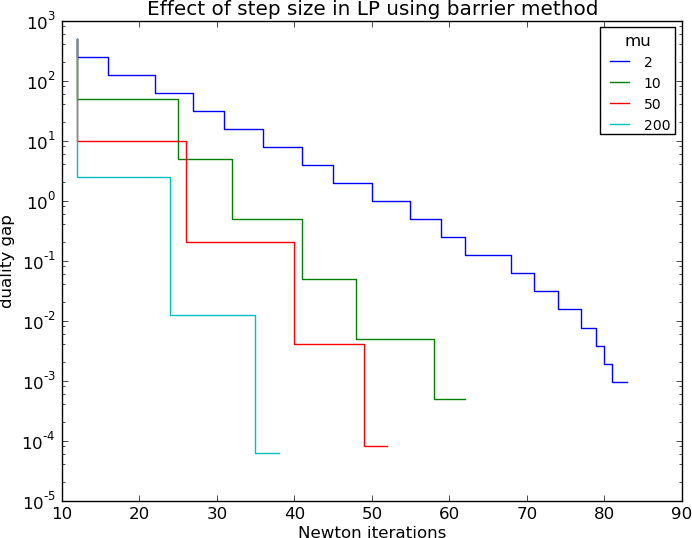
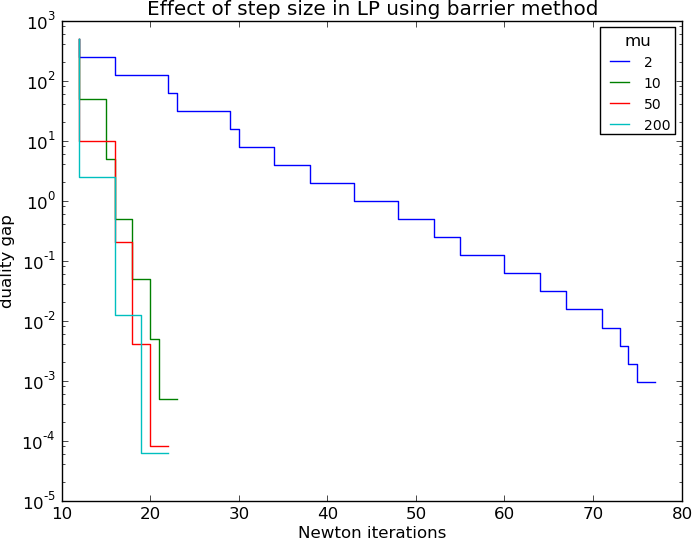
Wrote a general standard form LP solver using a phase I method, and then feeding the result, if feasible, to the strictly feasible starting point solver.
Refactored hw8.py to be run as a script, and replaced assertions with kept calculations.

diff --git a/hw8.py b/hw8.py
@@ -2,7 +2,7 @@ import numpy as np
 from numpy.random import RandomState
 import pandas as pd
 
-from .lp import run_lp_center, _plot_lp_center, _f, _grad, run_lp_strict, _plot_lp_strict
+from lp import run_lp_center, _plot_lp_center, _f, _grad, run_lp_strict, _plot_lp_strict, lp_solve
 
 import cvxopt
 import cvxpy
@@ -10,34 +10,37 @@ import cvxpy
 image_dir = 'img/'
 
 ## generate test data
+def gen_data(m, n, seed=0):
+    prng = RandomState(seed)
+    A = prng.randn(m,n)
+
+    ## check that A is full rank
+    assert np.linalg.matrix_rank(A) == m
+    ## src: http://stackoverflow.com/a/3356123
+    u, s, v = np.linalg.svd(A)
+    assert np.sum(s > 1e-10) == m
+
+    ## subtracting the mean reduces rank by 1 ...
+    # mu=np.mean(A,axis=0)
+    # u,s,v=np.linalg.svd(A-mu)
+    # np.sum(s > 1e-10) == 99
+    #
+    # from sklearn.decomposition import PCA
+    # sum(PCA().fit(A).explained_variance_ > 1e-10) == 99
+    #
+    # np.linalg.matrix_rank(A-mu) == 99
+
+    x0 = np.abs(prng.randn(n,1)) # make positive (ie. feasible)
+    b = np.dot(A,x0)
+    c = prng.rand(n,1)
+    return A, b, c, x0
 m,n = (100,500)
-prng = RandomState(1)
-A = prng.randn(m,n)
-
-## check that A is full rank
-assert np.linalg.matrix_rank(A) == m
-## src: http://stackoverflow.com/a/3356123
-u, s, v = np.linalg.svd(A)
-assert np.sum(s > 1e-10) == m
-
-## subtracting the mean reduces rank by 1 ...
-# mu=np.mean(A,axis=0)
-# u,s,v=np.linalg.svd(A-mu)
-# np.sum(s > 1e-10) == 99
-#
-# from sklearn.decomposition import PCA
-# sum(PCA().fit(A).explained_variance_ > 1e-10) == 99
-#
-# np.linalg.matrix_rank(A-mu) == 99
-
-x0 = np.abs(prng.randn(n,1)) # make positive
-b = np.dot(A,x0)
-c = prng.rand(n,1)
+A, b, c, x0 = gen_data(m,n,1)
 
 
 
 ## part 1
-acc_df_lp_center_stats, df_op = run_lp_center(A, b, c, x0)
+acc_df_lp_center_stats, df_op = run_lp_center(A, b, c, x0.copy())
 image_path = image_dir +'lp_-_part_1_-_centering.png'
 _plot_lp_center(acc_df_lp_center_stats, df_op, image_path)
 
@@ -79,11 +82,11 @@ for _, row in df_op.iterrows():
     ## cvxpy
     p_star = _f(c,x_star)
     cvx_p_star = _f(c,x.value)
-    cvx_st_norm = np.linalg.norm(_grad(c, np.array(x.value)).ravel() - np.dot(A.T,np.array(constraints[0].dual_value)).ravel(), ord=2)
-    entry = (in_domain, p_f_eq, st_norm, p_star, cvx_p_star, cvx_st_norm)
+    cvx_st_norm = np.linalg.norm(_grad(c, np.array(x.value)).ravel() - np.dot(A.T,np.array(constraints[0].dual_value)).ravel())
+    entry = (in_domain, p_f_eq, st_norm, float(p_star), float(cvx_p_star), cvx_st_norm)
     acc_stats.append(entry)
 df_stats = pd.DataFrame(acc_stats, columns=['dom','pf_eq','st_norm','p_star','cvx_p_star','cvx_st_norm'])
-print "Part 1: Centering (comparison against cvxpy)"
+print "Part 1: Centering in a LP (comparison against cvxpy)"
 print df_stats
 
 
@@ -91,30 +94,74 @@ print df_stats
 ## part 2
 def orig_f(c,x): # the "f" in lp.py includes the barrier; this is the original objective
     return np.dot(c.T,x)
+m,n = (100,500)
+A, b, c, x0 = gen_data(m,n,1)
 acc_df_lp_strict_stats, df_op_lp_strict = run_lp_strict(A, b, c, x0.copy()) # use default starting values
 image_path = image_dir +'lp_-_part_2_-_lp_strict_start.png'
 _plot_lp_strict(acc_df_lp_strict_stats, df_op_lp_strict, image_path)
 
-## compare against cvxpy
-x = cvxpy.Variable(n,name='x')
-A1 = cvxopt.matrix(A)
-c1 = cvxopt.matrix(c)
-ones = cvxopt.matrix(np.ones(n))
-b1 = cvxpy.Variable(b.shape[0],name='b')
-objective = cvxpy.Minimize(
-    c1.T*x
-)
-constraints = [A1*x == b1, x >= 0]
-prob = cvxpy.Problem(objective,constraints)
-p_star_1 = prob.solve()
+
+def lp_cvx(A, b, c):
+    """for comparing against cvxpy"""
+    x = cvxpy.Variable(n,name='x')
+    A1 = cvxopt.matrix(A)
+    c1 = cvxopt.matrix(c)
+    ones = cvxopt.matrix(np.ones(n))
+    b1 = cvxpy.Variable(b.shape[0],name='b')
+    objective = cvxpy.Minimize(
+        c1.T*x
+    )
+    constraints = [A1*x == b1, x >= 0]
+    prob = cvxpy.Problem(objective,constraints)
+    p_star_1 = prob.solve()
+    return x.value
+x_cvx = lp_cvx(A, b, c)
 
 
 acc_stats = []
 for _, row in df_op_lp_strict.iterrows():
     x_star, nu_star, mu = row[['x_star','nu_star','mu']]
-    p_star_diff = orig_f(c, x_star) -orig_f(c,x.value)
-    row = (p_star_diff, mu)
+    ## check feasibility
+    ieq_feas = all(x_star >= 0)
+    eq_diff = np.linalg.norm(np.dot(A,x_star)-b)
+    # np.linalg.norm(np.dot(A,df_op_lp_strict.ix[0,'x_star'])-b) # should be small
+    ##
+    p_star_diff = orig_f(c, x_star) -orig_f(c, x_cvx)
+    row = (float(p_star_diff), mu, ieq_feas, eq_diff)
     acc_stats.append( row )
-df_stats = pd.DataFrame(acc_stats, columns=['p_star_diff','mu'])
+df_stats = pd.DataFrame(acc_stats, columns=['p_star_diff','mu','ieq_feas','eq_diff'])
 print "Part 2: LP with strictly feasible starting point (comparison against cvxpy)"
+print df_stats
+
+
+
+
+# part 3
+acc_stats = []
+m,n = (100,500)
+for seed in xrange(4):
+    A, b, c, _ = gen_data(m, n, seed)
+    x_star, nu_star, df = lp_solve(A, b, c)
+
+    ieq_feas = all(x_star >= 0)
+    eq_diff = np.linalg.norm(np.dot(A,x_star)-b)
+
+    x_cvx = lp_cvx(A, b, c)
+
+    p_star_diff = orig_f(c, x_star) -orig_f(c, x_cvx)
+    row = (float(p_star_diff), True, ieq_feas, eq_diff)
+    acc_stats.append( row )
+## generate infeasible solution
+A, b, c, _ = gen_data(m, n, 4)
+A[-1,:] = np.ones(n) # append row
+try:
+    _ = lp_solve(A, b, c)
+except ValueError as ve:
+    print "lp_solve() detected infeasible system with t={0}".format(ve.args[1])
+else:
+    raise AssertionError("System is infeasible but lp_solve raised no exception")
+
+df_stats = pd.DataFrame(acc_stats, columns=['p_star_diff','feas','ieq_feas','eq_diff'])
+df_stats.index.name = 'seed'
+print "Part 3: LP solver with a phase I method (comparison against cvxpy)"
 print df_stats

diff --git a/lp.py b/lp.py
@@ -50,9 +50,15 @@ def line_search(c, x, grad_x, delta_x_nt, alpha, beta):
 
 def lp_center(A, b, c, x, epsilon=1e-6, max_iter=100, alpha=0.25, beta=0.5):
     acc_stats = []
+    prev_lambda_2 = np.inf
+    prev_w = None
+    prev_cond_n = None
     for iter_n in xrange(max_iter):
         ## solve kkt system
         H = _hessian(x)
+        cond_n = np.linalg.cond(H)
+        if prev_cond_n is None:
+            prev_cond_n = cond_n
         H_inv = np.diag(1./np.diag(H)) # avoid double inversion
         # H_inv = np.diag((x**2).ravel()) # doesn't really do much
         A_H_inv = np.dot(A,H_inv)
@@ -61,6 +67,8 @@ def lp_center(A, b, c, x, epsilon=1e-6, max_iter=100, alpha=0.25, beta=0.5):
         t1 = np.linalg.inv(np.dot(A_H_inv,A.T))
         t2 = -np.dot(A_H_inv,grad_x)
         w = np.dot(t1,t2)
+        if prev_w is None:
+            prev_w = w
         # t1 = np.dot(A_H_inv,A.T)
         # w = scipy.linalg.solve(t1,t2) # no difference in output
         #
@@ -69,15 +77,24 @@ def lp_center(A, b, c, x, epsilon=1e-6, max_iter=100, alpha=0.25, beta=0.5):
         lambda_2 = -np.dot(delta_x_nt.T,grad_x)
         if lambda_2/2. <= epsilon:
             break
+        ## these checks matter; they check that the problem does not suddenly increase. Without them, x0 returned by phase I will be very large (~e150) and might no longer be feasible
+        if (lambda_2 > prev_lambda_2 +1) or (cond_n/prev_cond_n) > 5: # "+1" and "5" are arbitrary tolerances
+            w = prev_w
+            break
+        prev_w = w
+        prev_lambda_2 = lambda_2
 
         t = line_search(c, x, grad_x, delta_x_nt, alpha, beta)
         x += t*delta_x_nt
 
-        row = (float(lambda_2/2.), iter_n) # \lambda_2/2 est. of f(x) -p^* using quad approx of f at x
+        row = (float(lambda_2/2.), iter_n, cond_n) # \lambda_2/2 est. of f(x) -p^* using quad approx of f at x
         acc_stats.append(row)
 
-    df = pd.DataFrame(acc_stats, columns=['l2_2', 'k'])
-    df.set_index('k',inplace=True)
+    if acc_stats:
+        df = pd.DataFrame(acc_stats, columns=['l2_2', 'k', 'cond_h'])
+        df.set_index('k',inplace=True)
+    else:
+        df = pd.DataFrame()
     return x, w, df
 
 
@@ -108,13 +125,15 @@ def _plot_lp_center(dfs, df_op, image_path):
     ax.legend(title=r'$\alpha,\beta$',prop={'size':10},loc='upper right')
     plt.savefig(image_path,bbox_inches='tight',pad_inches=0)
     print "Wrote to {0}".format(image_path)
-    # plt.show()
 
 
-def lp_strict(A, b, c, x, t=1, mu=10, epsilon=1e-3):
+def lp_strict(A, b, c, x, t=1, mu=10, epsilon=1e-3, debug=False):
     """Assuming a strictly feasible starting point"""
     n = len(x)
     acc_stats = []
+    if debug:
+        import pdb
+        pdb.set_trace()
     while True:
         x_star, nu_star, df_stat = lp_center(A, b, c*t, x, alpha=0.01, beta=0.5) # c*t will create objective tc^Tx -1^Tlog(x), the original objective plus log barrier
         x = x_star
@@ -124,7 +143,7 @@ def lp_strict(A, b, c, x, t=1, mu=10, epsilon=1e-3):
         if gap < epsilon:
             break
         t *= mu
-    df = pd.DataFrame(acc_stats, columns=['k_newton','gap'])
+    df = pd.DataFrame(acc_stats, columns=['k_newton','gap']) if acc_stats else pd.DataFrame()
     return x_star, nu_star, df
 
 
@@ -155,3 +174,45 @@ def _plot_lp_strict(dfs, df_op, image_path):
     ax.legend(title='mu',prop={'size':10},loc='upper right')
     plt.savefig(image_path,bbox_inches='tight',pad_inches=0)
     print "Wrote to {0}".format(image_path)
+
+
+def lp_solve(A, b, c):
+    """Derivation for phase I to use in lp_strict:
+min. t
+st. Ax = b
+    x \succeq (1 -t)\vec{1}
+    t \geq 0
+
+let z = x +(t -1)\vec{1}, then
+min. (over x,t) t <==> c=[0,...,0,1][z;t]
+st. Ax = b
+    z \succeq 0, t \geq 0 <==> [z;t] \succeq 0
+
+\begin{align*}
+Ax &= b\\
+Az -A(t -1)\vec{1} = b\\
+Az -tA\vec{1} &= b -A\vec{1}
+[A|-A\vec{1}][z;t] = b -A\vec{1}
+A_1[z;t] = b_1
+\end{align*}
+
+A LP on [z;t].
+"""
+    ones = np.ones(c.shape)
+    zeros = np.zeros(c.shape)
+    x0, _, _, _ = np.linalg.lstsq(A, b) # solve() does not handle non-square
+    t0 = 2 +max(0, -min(x0))
+    A1 = np.concatenate([A,-np.dot(A,ones)],axis=1)
+    b1 = b -np.dot(A,ones)
+    z0 = x0 +(t0 -1)*ones
+    c1 = np.concatenate([zeros,np.array([[1]])]) # min s. <==> min. c=[0,...,0,1]*x == t0 where x=[z0,t0]
+    x0_ls = np.concatenate([z0,np.array([t0])])
+    # assert np.allclose(np.dot(A1,x0_ls),b1)
+    zt_star, nu_star, df = lp_strict(A1, b1, c1, x0_ls.copy())
+    if zt_star[-1] >= 1:
+        raise ValueError("Infeasible", float(zt_star[-1]))
+
+    x0_new = zt_star[:-1] -(zt_star[-1] -1)*ones
+    x_star, nu_star, df = lp_strict(A, b, c, x0_new.copy())
+    ####
+    return x_star, nu_star, df
